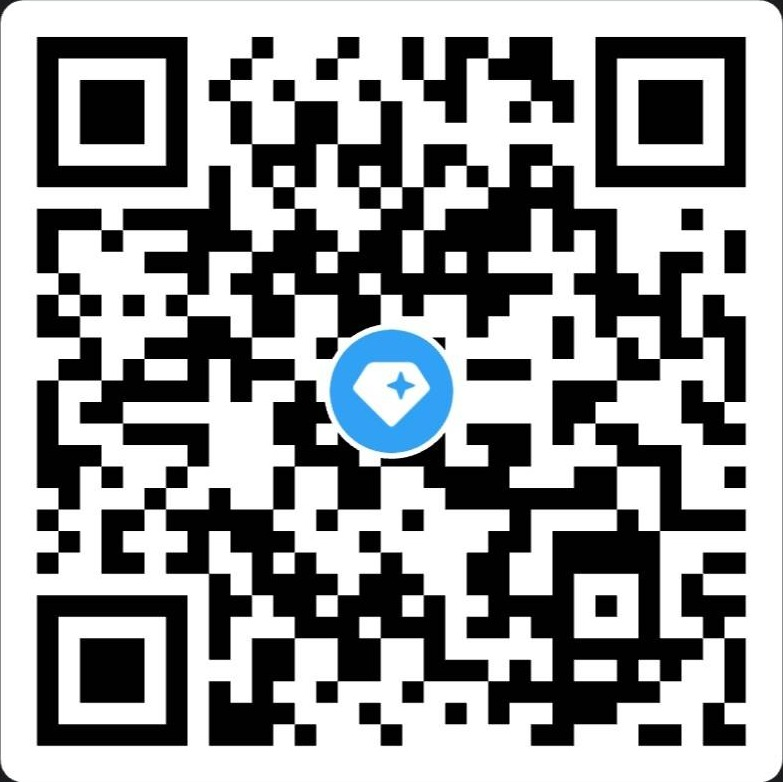
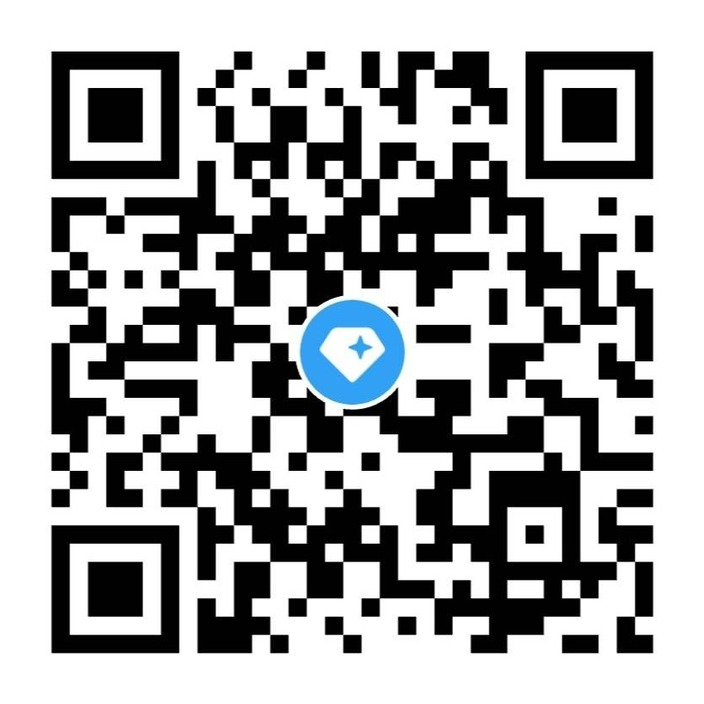
Unify donation QR images: crop to QR only, same size and margin
Bump service worker cache version so updated images are fetched.

diff --git a/sw.js b/sw.js
@@ -9,7 +9,7 @@
  *
  * Bump VERSION whenever a cached, non-versioned file (images, sounds, font) changes.
  */
-const VERSION = 'calm-v6';
+const VERSION = 'calm-v7';
 const SHELL_CACHE = `${VERSION}-shell`;
 const RUNTIME_CACHE = `${VERSION}-runtime`;
 const OFFLINE_CACHE = 'calm-offline-sounds'; // keep in sync with script.js
